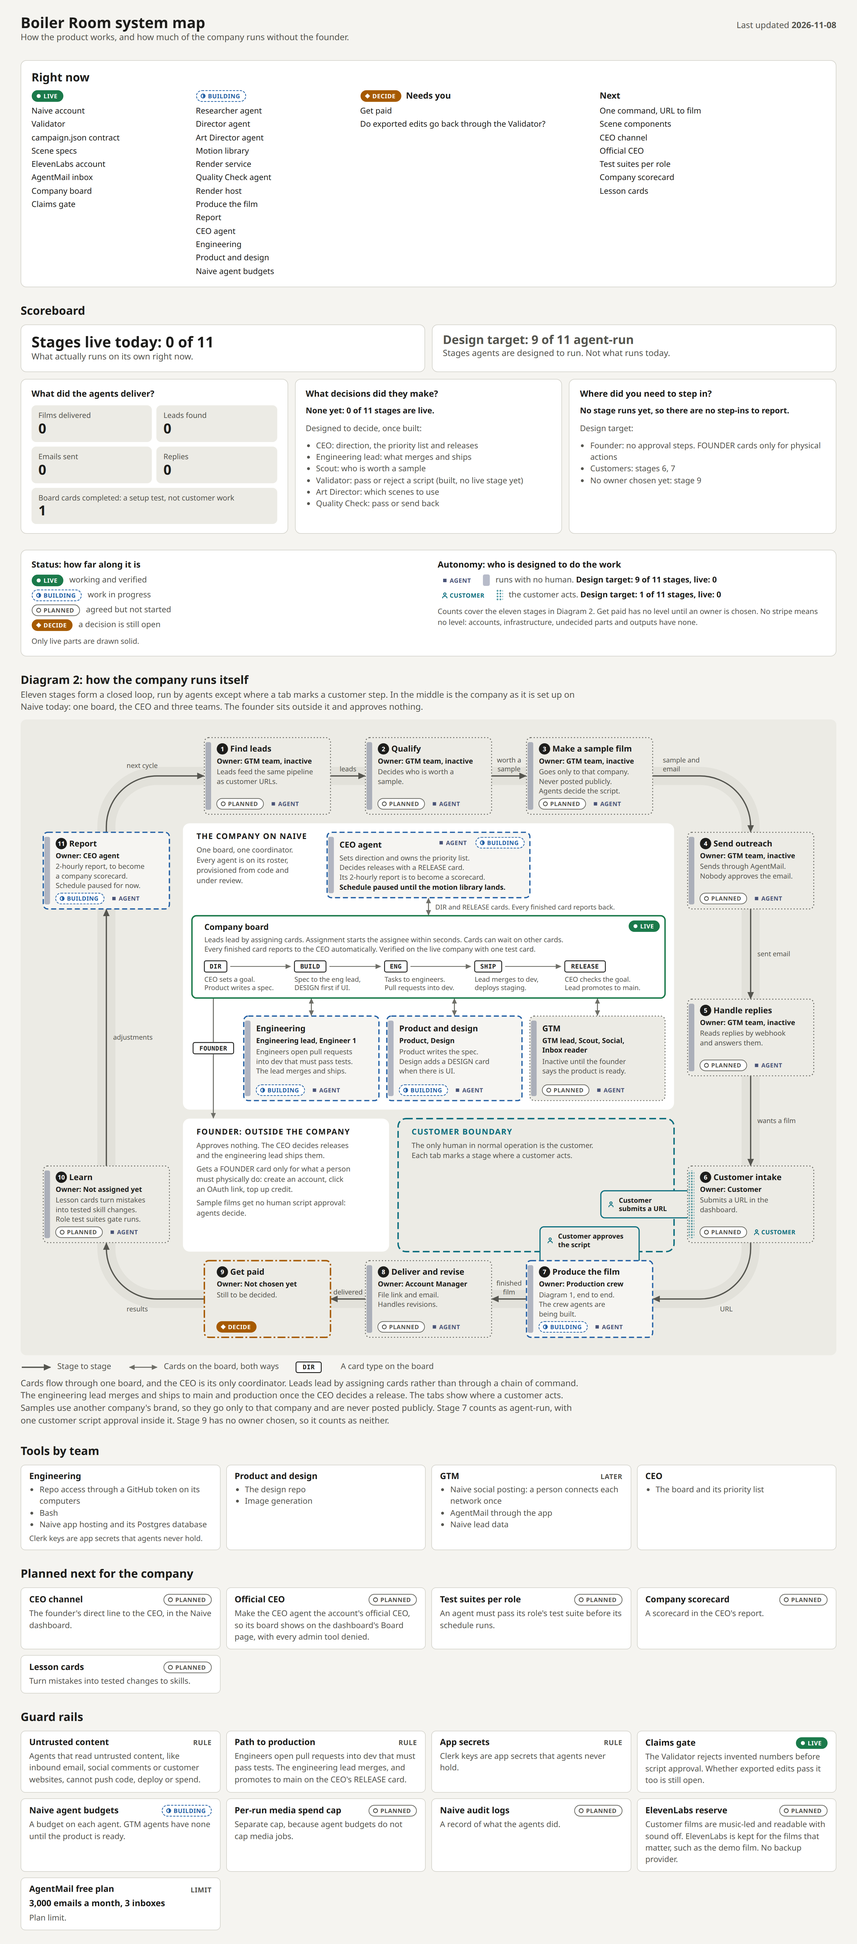
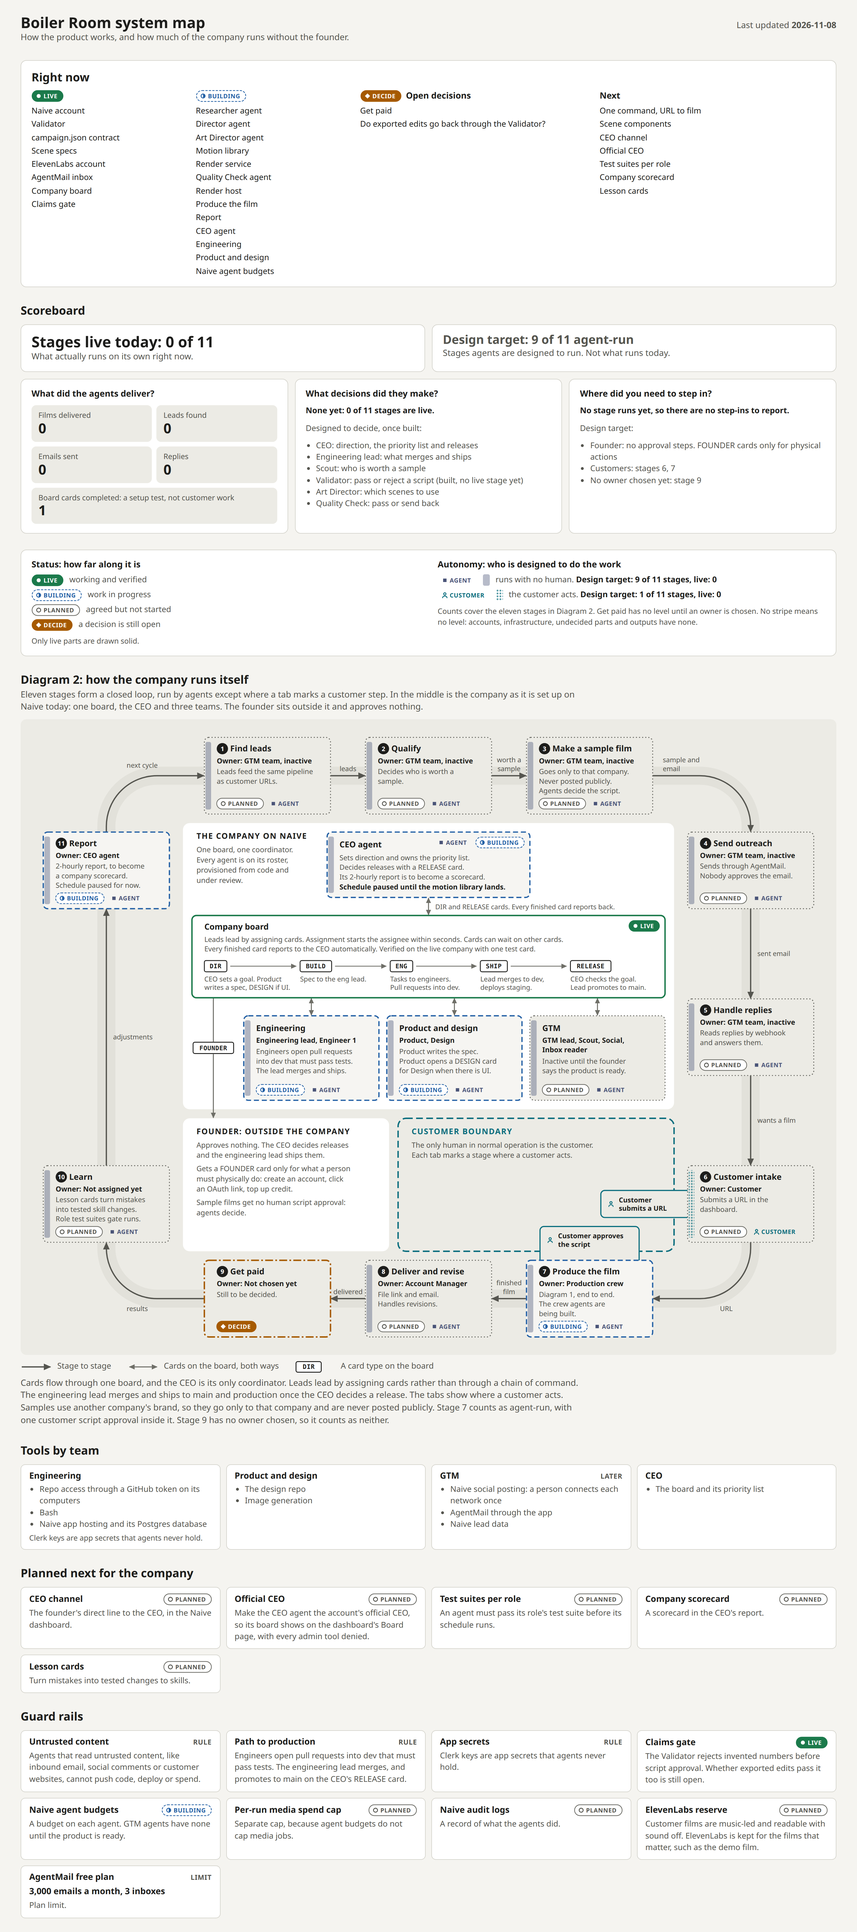
docs: fix review findings in the system map
- Drop the AgentMail inbox address from the public map: AgentMail uses it
  as the inbox id. Shrink the card, which also clears the "replies by
  webhook" label off its border.
- Mark the control layer as planned, and say on the Scout card that Scout
  is a company GTM agent, not part of the crew.
- Rename "Needs you" to "Open decisions": the founder approves nothing.
- Put the DESIGN card at the DIR step, opened by Product for Design, in
  the board legend, the team card and the README.
- Drop claims the current facts do not support: the Validator test count,
  the 18-exports maths (the merged Director skill allows 1 to 3 CTA
  variants, not 2), and "No backup provider". Exports now show the three
  formats only.
- Say the motion library holds transitions and motion tokens, not scenes,
  and that the Researcher has an open pull request.
- README: GTM is planned, not building.
- Regenerate technical.png, autonomy.png and scoreboard.png.

Claude-Session: https://claude.ai/code/session_01UKykBufjuLmqNyFJZzFeGe

diff --git a/docs/system-map/index.html b/docs/system-map/index.html
@@ -163,10 +163,7 @@
   .lane { font: 700 11px var(--font-sans); letter-spacing: .08em; fill: var(--ink-2); }
   .lane-note { font: 500 12px var(--font-sans); fill: var(--ink-2); }
   .cell { fill: var(--surface-2); stroke: var(--line-soft); }
-  .cell-text { font: 600 12.5px var(--font-sans); fill: var(--ink); text-anchor: middle; }
-  .math-big { font: 700 28px var(--font-sans); fill: var(--ink); text-anchor: middle; }
-  .math-word { font: 500 12px var(--font-sans); fill: var(--ink-2); text-anchor: middle; }
-  .math-op { font: 600 18px var(--font-sans); fill: var(--ink-2); text-anchor: middle; }
+  .cell-label { font: 500 12px var(--font-sans); fill: var(--ink-2); text-anchor: middle; }
   .thumb { fill: none; stroke: var(--ink-2); stroke-width: 1.5; }
 
   .flow { fill: none; stroke: var(--line); stroke-width: 1.75; marker-end: url(#arrow); }
@@ -304,7 +301,7 @@
     <div class="now-lists">
       <div><h3 class="now-head" id="now-head-live" aria-label="Live"></h3><ul id="now-live"></ul></div>
       <div><h3 class="now-head" id="now-head-building" aria-label="Building"></h3><ul id="now-building"></ul></div>
-      <div><h3 class="now-head" id="now-head-needs">Needs you</h3><ul id="now-needs"></ul></div>
+      <div><h3 class="now-head" id="now-head-needs">Open decisions</h3><ul id="now-needs"></ul></div>
       <div><h3 class="now-head">Next</h3><ul id="now-next"></ul></div>
     </div>
   </section>
@@ -378,7 +375,7 @@
 
           <!-- Lane labels -->
           <text class="lane" x="24" y="20">CONTROL LAYER</text>
-          <text class="lane-note" x="396" y="20">Runs every node marked AGENT below. Engineering maintains it.</text>
+          <text class="lane-note" x="396" y="20">Planned: will run every crew agent below. Engineering maintains it.</text>
           <text class="lane" x="24" y="164">WAY IN: CUSTOMER</text>
           <text class="lane" x="396" y="168">PIPELINE: SAME PATH FOR BOTH</text>
           <text class="lane" x="928" y="164">WAY IN: LEAD</text>
@@ -408,7 +405,7 @@
           <path class="flow" d="M1068 869 V839"/>
           <path class="flow" d="M164 1166 V1139"/>
           <path class="flow" d="M396 1324 H305"/>
-          <path class="flow" d="M164 1396 V1417"/>
+          <path class="flow" d="M164 1384 V1417"/>
           <path class="flow" d="M304 1466 H338 a12 12 0 0 0 12 -12 V1372 a12 12 0 0 1 12 -12 H395"/>
 
           <!-- Feedback loop 1: Validator back to Director -->
@@ -432,7 +429,7 @@
           <text class="edge-label" x="628" y="1032">voice, music, sound effects, word timing</text>
           <text class="edge-label" x="628" y="1156">rendered film</text>
           <text class="edge-label" x="628" y="1280">passes review, with the review report</text>
-          <text class="edge-label" x="628" y="1404">delivers up to 18 exports</text>
+          <text class="edge-label" x="628" y="1404">delivers the exports</text>
           <text class="edge-label" x="350" y="462" text-anchor="middle">schema</text>
           <text class="edge-label" x="350" y="710" text-anchor="middle">new assets</text>
           <text class="edge-label" x="350" y="958" text-anchor="middle">audio, timing</text>
@@ -443,7 +440,7 @@
           <text class="edge-label" x="176" y="1157">edits <tspan class="mono">campaign.json</tspan></text>
           <text class="edge-label" x="350" y="1300" text-anchor="middle">email with</text>
           <text class="edge-label" x="350" y="1316" text-anchor="middle">file link</text>
-          <text class="edge-label" x="176" y="1410">replies by webhook</text>
+          <text class="edge-label" x="176" y="1405">replies by webhook</text>
           <text class="edge-label" x="312" y="1484">replies</text>
 
           <!-- Open question sitting on the export arrow. Its chip is drawn from MAP.questions. -->
@@ -481,10 +478,11 @@
             <text class="detail" x="22" y="114">development instance.</text>
           </g>
           <g data-node="scout" data-chips="bottom" data-show-autonomy transform="translate(928 174)">
-            <rect class="card" width="280" height="104" rx="8"/>
+            <rect class="card" width="280" height="120" rx="8"/>
             <text class="name" x="22" y="25"></text>
             <text class="detail" x="22" y="46">Finds a lead in Naive lead data.</text>
-            <text class="detail" x="22" y="63">A GTM agent, inactive for now.</text>
+            <text class="detail" x="22" y="63">A company GTM agent (Diagram 2),</text>
+            <text class="detail" x="22" y="80">not crew. Inactive for now.</text>
           </g>
 
           <!-- The ten-step pipeline -->
@@ -493,7 +491,7 @@
             <text class="name" x="46" y="25"></text>
             <text class="detail" x="22" y="45">Captures screenshots, colours, fonts, logo and quoted claims.</text>
             <text class="detail" x="22" y="62">Runs alone. Ignored every instruction in a hostile test page.</text>
-            <text class="detail" x="22" y="79">Five-site tests found wrong colours and timeouts: fixing.</text>
+            <text class="detail" x="22" y="79">Open pull request. Fixing wrong colours and timeouts from tests.</text>
           </g>
           <g data-node="director" data-chips="top" data-show-autonomy transform="translate(396 302)">
             <rect class="card" width="440" height="88" rx="8"/>
@@ -507,7 +505,7 @@
             <text class="name" x="46" y="25"></text>
             <text class="detail" x="22" y="45">Pre-render gate. Rejects invented numbers, missing assets,</text>
             <text class="detail" x="22" y="62">bad timing, long text and low contrast.</text>
-            <text class="detail" x="22" y="79">Merged to dev, 522 tests passing.</text>
+            <text class="detail" x="22" y="79">Merged to dev, tests passing.</text>
           </g>
           <g data-node="script-approval" data-chips="top" data-show-autonomy transform="translate(396 550)">
             <rect class="card" width="440" height="88" rx="8"/>
@@ -526,7 +524,7 @@
           <g data-node="motion-library" data-chips="top" transform="translate(396 798)">
             <rect class="card" width="440" height="88" rx="8"/>
             <text class="name" x="46" y="25"></text>
-            <text class="detail" x="22" y="45"><tspan class="mono">packages/motion</tspan>: Remotion scenes, transitions, motion tokens.</text>
+            <text class="detail" x="22" y="45"><tspan class="mono">packages/motion</tspan>: Remotion transitions and motion tokens.</text>
             <text class="detail" x="22" y="62">Open pull request. Renders a validated campaign</text>
             <text class="detail" x="22" y="79">in 16:9, 9:16 and 1:1.</text>
           </g>
@@ -569,12 +567,11 @@
             <text class="detail" x="22" y="46"><tspan class="mono">packages/schema</tspan>: the format the</text>
             <text class="detail" x="22" y="63">Director writes and the Validator checks.</text>
           </g>
-          <g data-node="elevenlabs" data-chips="bottom" transform="translate(24 903)">
-            <rect class="card" width="280" height="126" rx="8"/>
+          <g data-node="elevenlabs" data-chips="bottom" transform="translate(24 914)">
+            <rect class="card" width="280" height="104" rx="8"/>
             <text class="name" x="22" y="25"></text>
             <text class="detail" x="22" y="46">Connected. Kept for the films that</text>
             <text class="detail" x="22" y="63">matter, such as the demo film.</text>
-            <text class="detail" x="22" y="80">No backup provider.</text>
           </g>
           <g data-node="scene-components" data-chips="bottom" transform="translate(928 734)">
             <rect class="card" width="280" height="104" rx="8"/>
@@ -616,11 +613,10 @@
 
           <!-- Email -->
           <g data-node="agentmail" data-chips="bottom" transform="translate(24 1280)">
-            <rect class="card" width="280" height="116" rx="8"/>
+            <rect class="card" width="280" height="104" rx="8"/>
             <text class="name" x="22" y="25"></text>
-            <text class="detail" x="22" y="44"><tspan class="mono">boilerroom@agentmail.to</tspan></text>
-            <text class="detail" x="22" y="61">Sender name shows AgentMail:</text>
-            <text class="detail" x="22" y="78">still to change to Boiler Room.</text>
+            <text class="detail" x="22" y="46">Sender name shows AgentMail:</text>
+            <text class="detail" x="22" y="63">still to change to Boiler Room.</text>
           </g>
           <g data-node="reply-webhook" data-chips="bottom" transform="translate(24 1418)">
             <rect class="card" width="280" height="96" rx="8"/>
@@ -632,30 +628,20 @@
           <g data-node="exports" data-chips="bottom" transform="translate(396 1418)">
             <rect class="card" width="812" height="124" rx="8"/>
             <text class="name" x="22" y="25"></text>
-            <text class="detail" x="22" y="47">One campaign, up to 18 exports.</text>
+            <text class="detail" x="22" y="47">One campaign, in three formats.</text>
             <text class="detail" x="22" y="65">Each format has its own layout</text>
             <text class="detail" x="22" y="83">rather than a crop.</text>
 
-            <rect class="cell" x="256" y="14" width="92" height="96" rx="6"/>
-            <text class="math-big" x="302" y="62">3</text>
-            <text class="math-word" x="302" y="86">hooks</text>
-            <text class="math-op" x="360" y="68">&#215;</text>
-            <rect class="cell" x="372" y="14" width="172" height="96" rx="6"/>
-            <text class="math-word" x="458" y="32">3 formats</text>
-            <rect class="thumb" x="386" y="50" width="56" height="31.5" rx="1.5"/>
-            <text class="math-word" x="414" y="100">16:9</text>
-            <rect class="thumb" x="456" y="44" width="21" height="37.5" rx="1.5"/>
-            <text class="math-word" x="466.5" y="100">9:16</text>
-            <rect class="thumb" x="494" y="46" width="35.5" height="35.5" rx="1.5"/>
-            <text class="math-word" x="511.75" y="100">1:1</text>
-            <text class="math-op" x="556" y="68">&#215;</text>
-            <rect class="cell" x="568" y="14" width="104" height="96" rx="6"/>
-            <text class="math-big" x="620" y="62">2</text>
-            <text class="math-word" x="620" y="86">calls to action</text>
-            <text class="math-op" x="684" y="68">=</text>
-            <rect class="cell" x="696" y="14" width="104" height="96" rx="6"/>
-            <text class="math-big" x="748" y="62">18</text>
-            <text class="math-word" x="748" y="86">exports at most</text>
+            <!-- The three formats the motion library renders -->
+            <rect class="cell" x="256" y="14" width="172" height="96" rx="6"/>
+            <rect class="thumb" x="294" y="26" width="96" height="54" rx="2"/>
+            <text class="cell-label" x="342" y="100">16:9 landscape</text>
+            <rect class="cell" x="442" y="14" width="172" height="96" rx="6"/>
+            <rect class="thumb" x="512.8" y="26" width="30.4" height="54" rx="2"/>
+            <text class="cell-label" x="528" y="100">9:16 tall</text>
+            <rect class="cell" x="628" y="14" width="172" height="96" rx="6"/>
+            <rect class="thumb" x="687" y="26" width="54" height="54" rx="2"/>
+            <text class="cell-label" x="714" y="100">1:1 square</text>
           </g>
         </svg>
       </div>
@@ -718,40 +704,39 @@
             <text class="detail" x="22" y="64">Every finished card reports to the CEO automatically. Verified on the live company with one test card.</text>
 
             <!-- Card flow: DIR, BUILD, ENG, SHIP, RELEASE -->
-            <path class="legend-arrow" d="M68 90 H175"/>
-            <path class="legend-arrow" d="M244 90 H335"/>
-            <path class="legend-arrow" d="M388 90 H495"/>
-            <path class="legend-arrow" d="M556 90 H655"/>
+            <path class="legend-arrow" d="M68 90 H185"/>
+            <path class="legend-arrow" d="M254 90 H345"/>
+            <path class="legend-arrow" d="M398 90 H505"/>
+            <path class="legend-arrow" d="M566 90 H665"/>
             <g class="card-tag" transform="translate(22 80)">
               <rect class="card-tag-box" width="40" height="20" rx="3"/>
               <text class="card-tag-text" x="20" y="14">DIR</text>
             </g>
-            <text class="edge-label" x="22" y="117">CEO sets a goal.</text>
-            <text class="edge-label" x="22" y="132">Product writes a spec.</text>
-            <g class="card-tag" transform="translate(182 80)">
+            <text class="edge-label" x="22" y="117">CEO sets a goal. Product</text>
+            <text class="edge-label" x="22" y="132">writes a spec, DESIGN if UI.</text>
+            <g class="card-tag" transform="translate(192 80)">
               <rect class="card-tag-box" width="56" height="20" rx="3"/>
               <text class="card-tag-text" x="28" y="14">BUILD</text>
             </g>
-            <text class="edge-label" x="182" y="117">Spec to the eng lead,</text>
-            <text class="edge-label" x="182" y="132">DESIGN first if UI.</text>
-            <g class="card-tag" transform="translate(342 80)">
+            <text class="edge-label" x="192" y="117">Spec to the eng lead.</text>
+            <g class="card-tag" transform="translate(352 80)">
               <rect class="card-tag-box" width="40" height="20" rx="3"/>
               <text class="card-tag-text" x="20" y="14">ENG</text>
             </g>
-            <text class="edge-label" x="342" y="117">Tasks to engineers.</text>
-            <text class="edge-label" x="342" y="132">Pull requests into dev.</text>
-            <g class="card-tag" transform="translate(502 80)">
+            <text class="edge-label" x="352" y="117">Tasks to engineers.</text>
+            <text class="edge-label" x="352" y="132">Pull requests into dev.</text>
+            <g class="card-tag" transform="translate(512 80)">
               <rect class="card-tag-box" width="48" height="20" rx="3"/>
               <text class="card-tag-text" x="24" y="14">SHIP</text>
             </g>
-            <text class="edge-label" x="502" y="117">Lead merges to dev,</text>
-            <text class="edge-label" x="502" y="132">deploys staging.</text>
-            <g class="card-tag" transform="translate(662 80)">
+            <text class="edge-label" x="512" y="117">Lead merges to dev,</text>
+            <text class="edge-label" x="512" y="132">deploys staging.</text>
+            <g class="card-tag" transform="translate(672 80)">
               <rect class="card-tag-box" width="72" height="20" rx="3"/>
               <text class="card-tag-text" x="36" y="14">RELEASE</text>
             </g>
-            <text class="edge-label" x="662" y="117">CEO checks the goal.</text>
-            <text class="edge-label" x="662" y="132">Lead promotes to main.</text>
+            <text class="edge-label" x="672" y="117">CEO checks the goal.</text>
+            <text class="edge-label" x="672" y="132">Lead promotes to main.</text>
           </g>
 
           <g data-node="team-engineering" data-chips="bottom" data-show-autonomy transform="translate(384 514)">
@@ -767,8 +752,8 @@
             <text class="name" x="22" y="27"></text>
             <text class="members" x="22" y="48">Product, Design</text>
             <text class="detail" x="22" y="68">Product writes the spec.</text>
-            <text class="detail" x="22" y="85">Design adds a DESIGN card</text>
-            <text class="detail" x="22" y="102">when there is UI.</text>
+            <text class="detail" x="22" y="85">Product opens a DESIGN card</text>
+            <text class="detail" x="22" y="102">for Design when there is UI.</text>
           </g>
           <g data-node="team-gtm" data-chips="bottom" data-show-autonomy transform="translate(892 514)">
             <rect class="card" width="240" height="150" rx="8"/>
@@ -965,7 +950,7 @@ const MAP = {
     { name: 'Lesson cards',         detail: 'Turn mistakes into tested changes to skills.' },
   ],
 
-  /* Open questions. Each shows under Needs you, and on the map wherever it applies. stage
+  /* Open questions. Each shows under Open decisions, and on the map wherever it applies. stage
      says which company stage it could change. Delete one once it is answered, then change
      the stage or the drawing to match the answer. */
   questions: [
@@ -1048,7 +1033,7 @@ const MAP = {
     { id: 'agent-budgets',      name: 'Naive agent budgets',     value: '',                                detail: 'A budget on each agent. GTM agents have none until the product is ready.', status: 'building' },
     { id: 'media-cap',          name: 'Per-run media spend cap', value: '',                                detail: 'Separate cap, because agent budgets do not cap media jobs.', status: 'planned' },
     { id: 'audit-logs',         name: 'Naive audit logs',        value: '',                                detail: 'A record of what the agents did.', status: 'planned' },
-    { id: 'elevenlabs-reserve', name: 'ElevenLabs reserve',      value: '',                                detail: 'Customer films are music-led and readable with sound off. ElevenLabs is kept for the films that matter, such as the demo film. No backup provider.', status: 'planned' },
+    { id: 'elevenlabs-reserve', name: 'ElevenLabs reserve',      value: '',                                detail: 'Customer films are music-led and readable with sound off. ElevenLabs is kept for the films that matter, such as the demo film.', status: 'planned' },
     { id: 'agentmail-plan',     name: 'AgentMail free plan',     value: '3,000 emails a month, 3 inboxes', detail: 'Plan limit.', status: null, label: 'LIMIT' },
   ],
 };
@@ -1263,7 +1248,7 @@ function renderScoreboard() {
     noOwner.length && `No owner chosen yet: ${stageList(noOwner)}`,
   ].filter(Boolean));
   if (openStages.length) {
-    setText('stepins-open', `These may change on ${stageList(openStages)}: see Needs you.`);
+    setText('stepins-open', `These may change on ${stageList(openStages)}: see Open decisions.`);
     document.getElementById('stepins-open').hidden = false;
   }
 }

diff --git a/docs/system-map/README.md b/docs/system-map/README.md
@@ -12,7 +12,7 @@ As of 2026-11-08:
 
 - **Live:** Naive account, Validator, `campaign.json` contract, Scene specs, ElevenLabs account, AgentMail inbox, Company board, Claims gate
 - **Building:** Researcher agent, Director agent, Art Director agent, Motion library, Render service, Quality Check agent, Render host, Produce the film, Report, CEO agent, Engineering, Product and design, Naive agent budgets
-- **Needs you:** Get paid, and whether exported edits go back through the Validator
+- **Open decisions:** Get paid, and whether exported edits go back through the Validator
 - **Next:** One command, URL to film, Scene components, CEO channel, Official CEO, Test suites per role, Company scorecard, Lesson cards
 
 Click any image below to open it at full size. This first one stays readable at page width; the diagram images carry the same panels above the detail.
@@ -21,7 +21,7 @@ Click any image below to open it at full size. This first one stays readable at 
 
 ## Diagram 1: how Boiler Room works
 
-This is the production crew: the product's own runtime, maintained by engineering and separate from the company's chain of command. Both ways in feed one ten-step pipeline. The heavy dashed arrows are the two feedback loops. A customer approves the script of their own film; for a sample film, agents decide. The DECIDE marker on the export arrow is an open question: whether an exported edit passes the Validator first.
+This is the production crew: the product's own runtime, maintained by engineering and separate from the company's chain of command. Both ways in feed one ten-step pipeline. Scout, the way in for leads, is a company GTM agent from Diagram 2, not part of the crew. The heavy dashed arrows are the two feedback loops. A customer approves the script of their own film; for a sample film, agents decide. The DECIDE marker on the export arrow is an open question: whether an exported edit passes the Validator first.
 
 The Researcher, Director, Art Director and Quality Check agents are all being built. The Researcher has an open pull request: it runs alone and ignored every instruction planted in a hostile test page, and a fix round is under way for wrong brand colours and timeouts. The other three have their skills merged. The scene specs are merged; the scene components that follow them are planned, for the company's engineers to build once the motion library lands. One command from URL to film comes next, after the crew agents.
 
@@ -31,13 +31,13 @@ The Researcher, Director, Art Director and Quality Check agents are all being bu
 
 Eleven stages form a closed loop. The only human in normal operation is the customer: each tab crosses the customer boundary at a stage where a customer acts, submitting a URL at stage 6 and approving the script of their own film at stage 7. Stages 1 to 5 belong to the GTM team, which is inactive for now. Stage 9, Get paid, has no owner chosen yet.
 
-The middle is the company as it is set up on Naive. There is one board, and the CEO agent is its only coordinator. Every company agent is on its roster, so the teams are drawn side by side under the board rather than as a chain of command. Leads lead by assigning cards, and assignment starts the assignee within seconds. Cards can wait on other cards, and every finished card reports to the CEO automatically. That flow is verified on the live company with one test card. The agents exist and are provisioned from code, but the CEO's 2-hourly schedule is paused until the motion library lands, so the CEO and the teams are still marked building.
+The middle is the company as it is set up on Naive. There is one board, and the CEO agent is its only coordinator. Every company agent is on its roster, so the teams are drawn side by side under the board rather than as a chain of command. Leads lead by assigning cards, and assignment starts the assignee within seconds. Cards can wait on other cards, and every finished card reports to the CEO automatically. That flow is verified on the live company with one test card. The agents exist and are provisioned from code, but the CEO's 2-hourly schedule is paused until the motion library lands, so the CEO, Engineering and Product and design are marked building; GTM is planned and inactive until the founder says the product is ready.
 
 Work moves by card:
 
 | Card | What happens |
 | --- | --- |
-| `DIR` | The CEO sets a goal. Product writes a spec, with a `DESIGN` card first if there is UI. |
+| `DIR` | The CEO sets a goal. Product writes a spec, and opens a `DESIGN` card for Design if there is UI. |
 | `BUILD` | The spec goes to the engineering lead. |
 | `ENG` | The lead hands tasks to engineers, who open pull requests into dev that must pass tests. |
 | `SHIP` | Back to the lead, who merges into dev and deploys staging. The CEO then checks it against the goal. |
